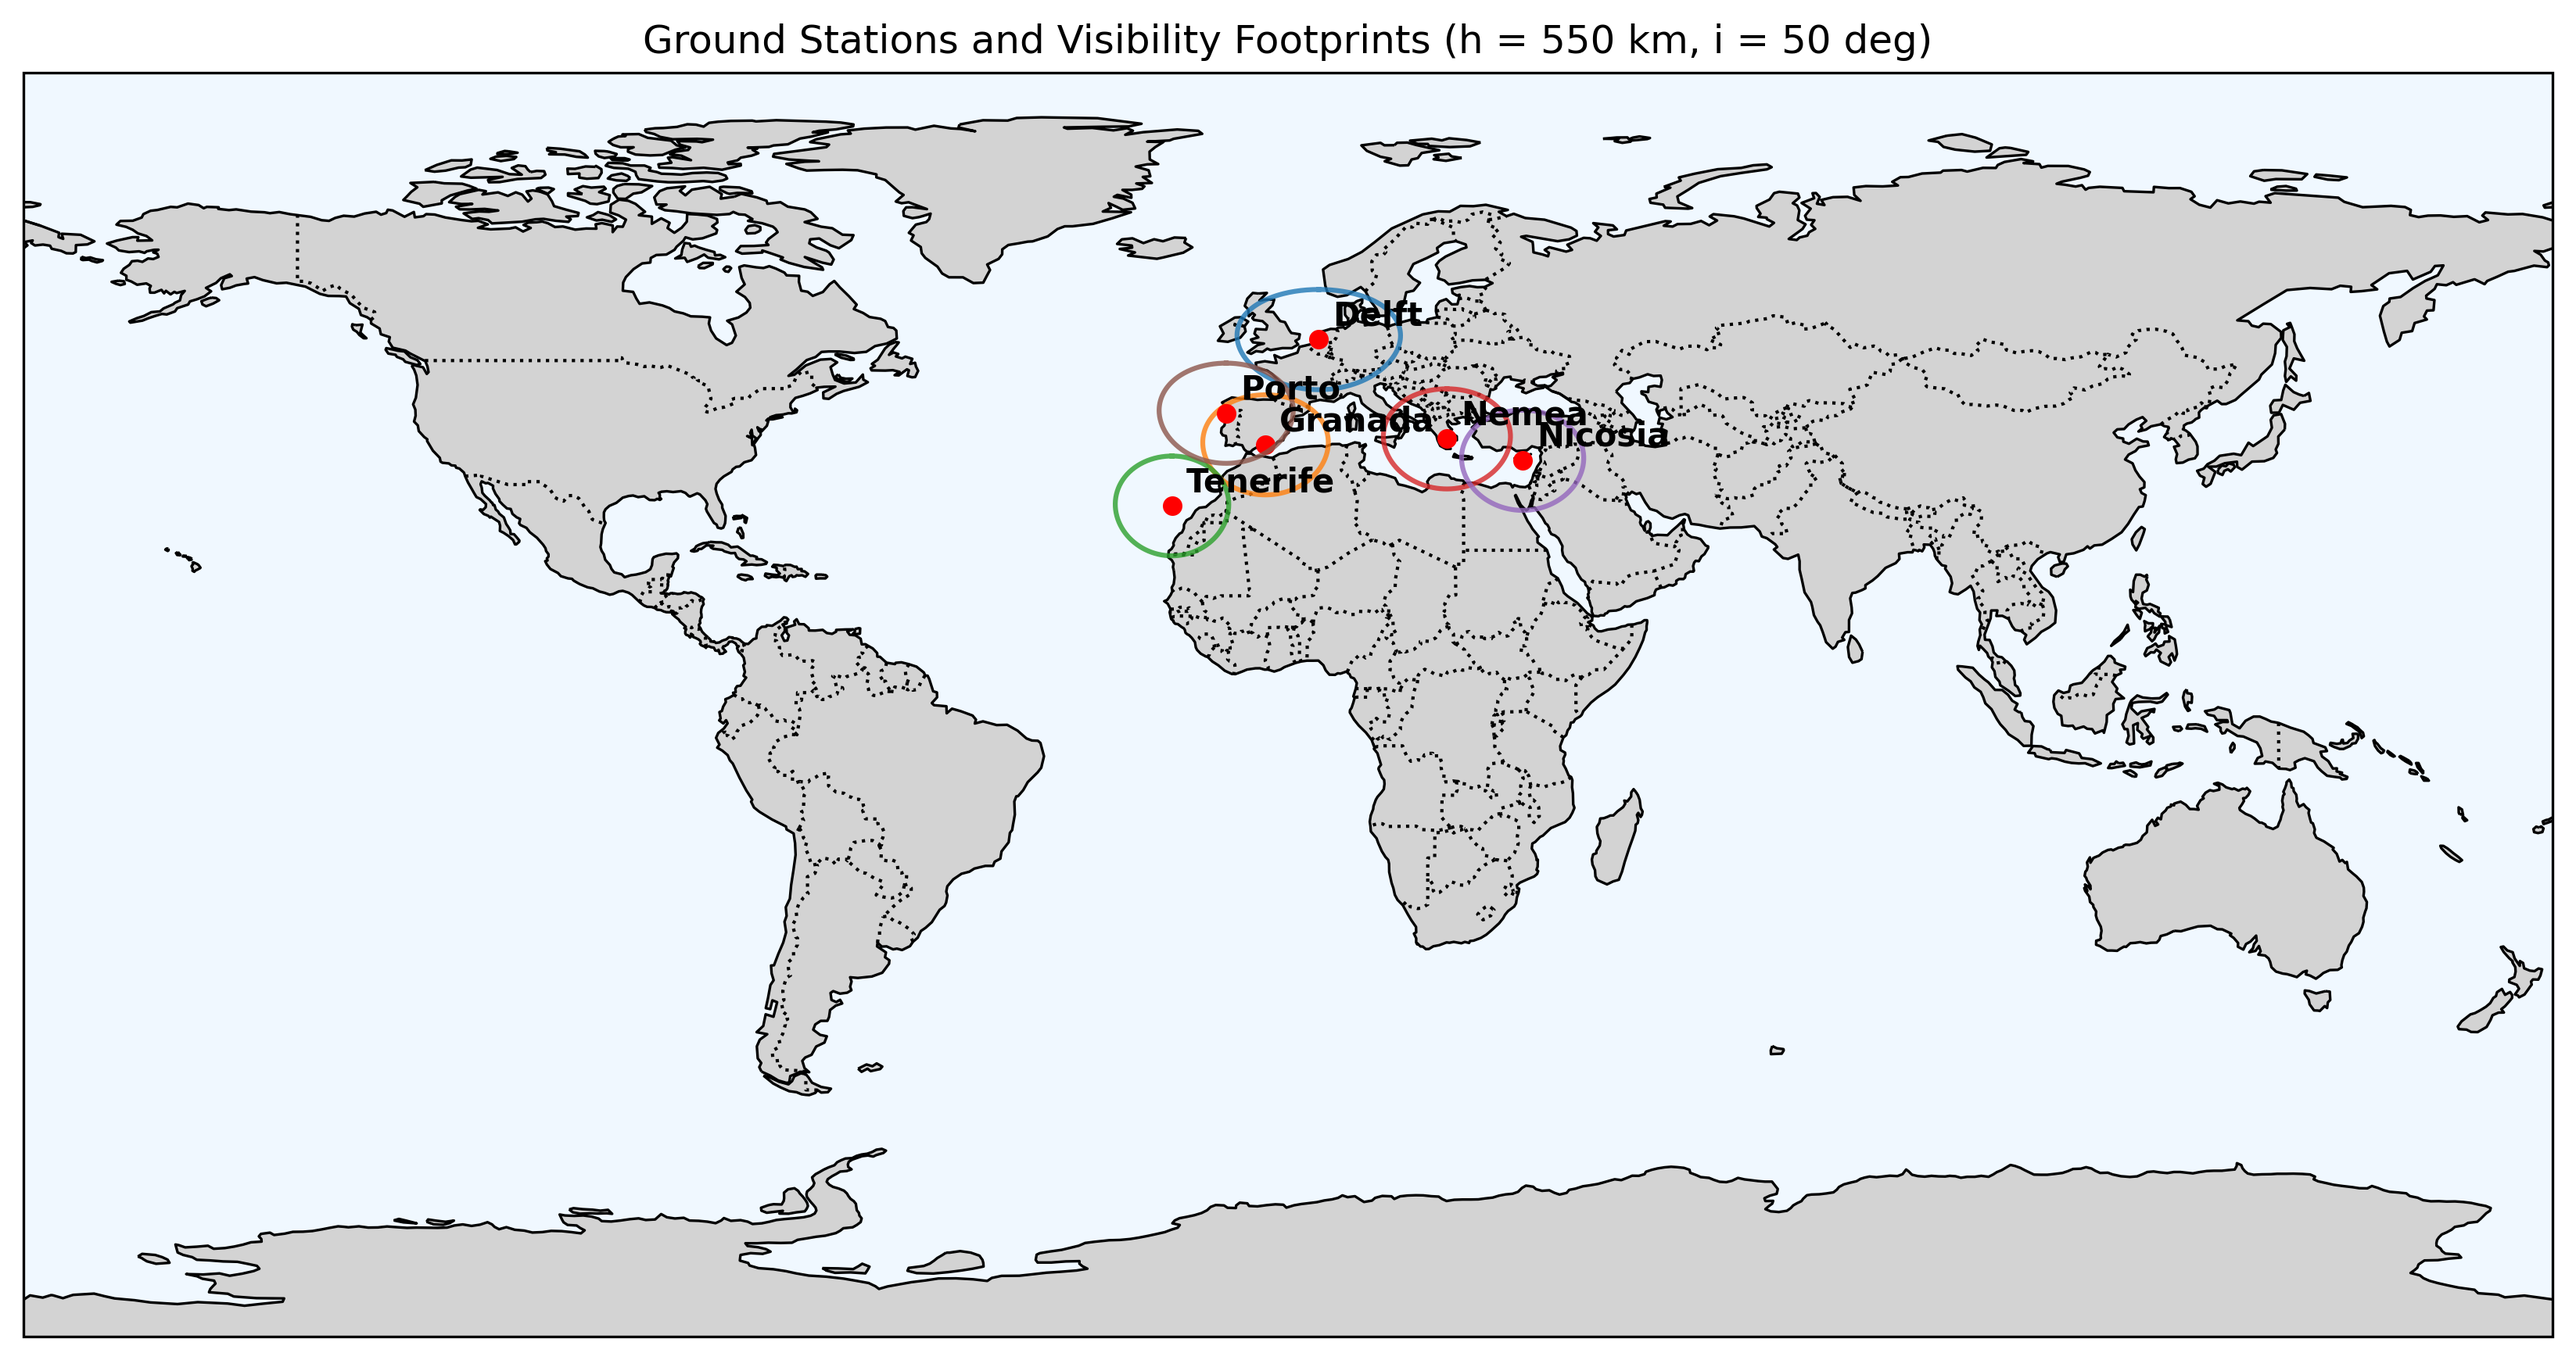
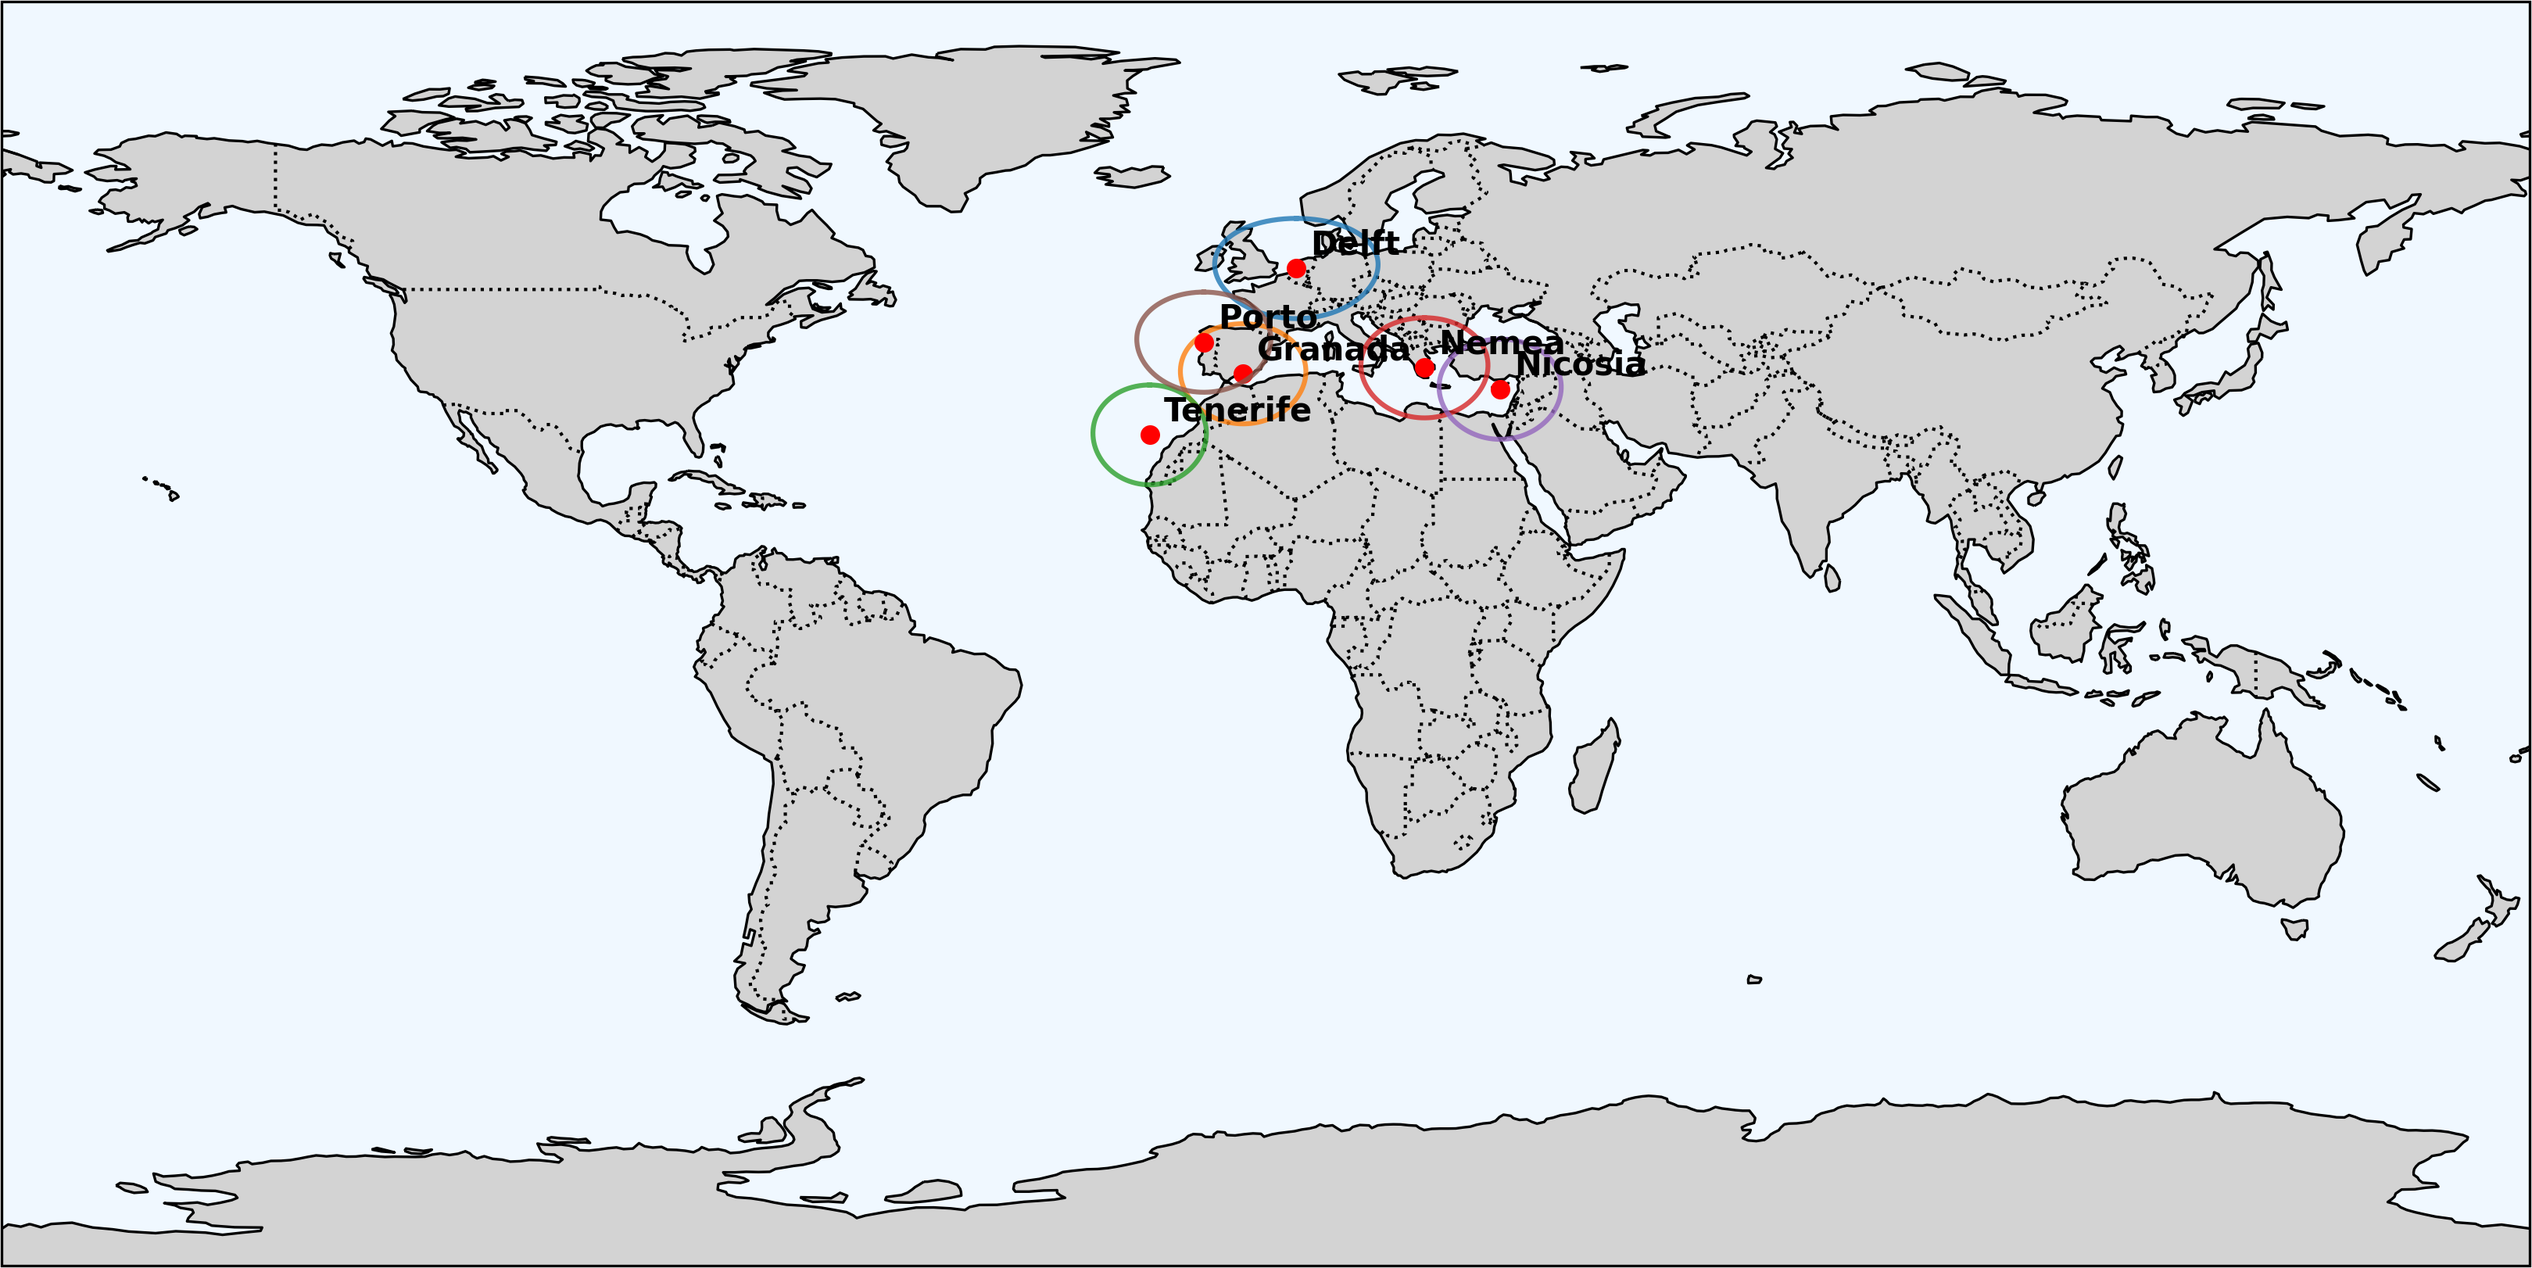
New optical noise model

Changed region(s): [[0.0, 0.0, 1.0, 1.0], [0.0, 0.0, 0.0312, 0.0617]]

diff --git a/NoiseOptical.py b/NoiseOptical.py
@@ -224,6 +224,183 @@ class opticalNoise():
             with open(filename, 'w') as f:
                 f.write(summary_str)
 
+
+import numpy as np
+
+
+class OpticalNoiseV2:
+
+    def __init__(self, P_R:float, wavelength:float, B_e:float, T:float=300, R:float=50, eta:float=0.9, i_D:float=1e-9, detector_type:str="PIN", detector_material:str="ingaas", M:float=1):
+        """
+        :param P_R: Received optical power at the photodetector [W]
+        :type P_R: float
+        :param wavelength: Wavelength of the optical signal [m]
+        :type wavelength: float
+        :param B_e: Electrical bandwidth of the receiver [Hz]
+        :type B_e: float
+        :param T: Receiver temperature [K], default is 300 K
+        :type T: float
+        :param R: Load resistance [Ohm], default is 50 Ohm
+        :type R: float
+        :param eta: Photodiode quantum efficiency (0.30 to 0.95 typical), default is 0.9
+        :type eta: float
+        :param i_D: Dark current of the photodiode [A], default is 1 nA
+        :type i_D: float
+        :param detector_type: Type of photodetector ("PIN" or "APD"), default is "PIN"
+        :type detector_type: str
+        :param detector_material: Material of the photodetector ("Si", "InGaAs", "Ge"), default is "InGaAs"
+        :type detector_material: str
+        :param M: Avalanche gain for APD (ignored for PIN), default is 1
+        :type M: float
+        """
+        self.P_R = P_R  # Received optical power [W]
+        self.wavelength = wavelength  # Wavelength [m]
+        self.B_e = B_e  # Electrical receiver bandwidth [Hz]
+        self.T = T  # Receiver temperature [K]
+        self.R = R  # Load resistance [Ohm]
+        self.eta = eta  # Photodiode quantum efficiency [-] (30% to 95% typical)
+        self.i_D = i_D  # Dark current [A]
+
+        self.detector_type = detector_type.upper()  # "PIN" or "APD"
+        self.detector_material = detector_material.lower()  # "si", "ingaas" or "ge"
+
+        match self.detector_type:
+            case "APD":
+                match self.detector_material:
+                    case "si":
+                        x = 0.3
+                    case "ingaas":
+                        x = 0.7
+                    case "ge":
+                        x = 1.0
+                    case _:
+                        raise ValueError("Invalid detector material. Must be 'Si', 'InGaAs', or 'Ge'.")
+                self.M = M  # Avalanche gain for APD
+                self.F = M ** x  # Excess noise factor for APD
+            case "PIN":
+                self.M = 1  # No gain for PIN
+                self.F = 1  # No excess noise for PIN
+            case _:
+                raise ValueError("Invalid detector type. Must be 'PIN' or 'APD'.")
+
+        # constants
+        self.q = 1.602176634e-19  # electron charge (C)
+        self.h = 6.62607015e-34  # Planck's constant (J*s)
+        self.c = 299792458  # speed of light (m/s)
+        self.kB = 1.380649e-23  # Boltzmann constant (J/K)
+
+        # Calculate everything
+        self.sigmaShot = self.shotNoise()
+        self.sigmaDark = self.darkNoise()
+        self.sigmaThermal = self.thermalNoise()
+        self.sigmaTotal = self.totalNoise()
+        self.SNR = self.SNR()
+
+    def responsivity(self):
+        """
+        Calculate photodetector responsivity [A/W] based on quantum efficiency and wavelength.
+        """
+        return self.eta * self.q * self.wavelength / (self.h * self.c) * self.M
+
+    def photocurrent(self):
+        """
+        Calculate photocurrent generated by the received optical power [A].
+        """
+        return self.responsivity() * self.P_R
+
+    def shotNoise(self):
+        """
+        Calculate shot noise. [A^2]
+        """
+        return 2 * self.q * self.photocurrent() * self.B_e * (self.M ** 2) * self.F
+
+    def darkNoise(self):
+        """
+        Calculate dark current noise. [A^2]
+        """
+        return 2 * self.q * self.i_D * self.B_e * (self.M ** 2) * self.F
+
+    def thermalNoise(self):
+        """
+        Calculate thermal noise. [A^2]
+        """
+        return 4 * self.kB * self.T / self.R * self.B_e
+
+    def totalNoise(self):
+        """
+        Calculate total noise. [A^2]
+        """
+        return self.sigmaShot + self.sigmaDark + self.sigmaThermal
+
+    def SNR(self, ):
+        """
+        Calculate signal-to-noise ratio (SNR) at the photodetector output (dimensionless).
+        """
+        return self.photocurrent() ** 2 / self.totalNoise()
+
+    def summary(self, in_dB: bool = False, Print: bool = True, save: bool = False, filename: str = "opticalNoiseSummary.txt"):
+        if in_dB:
+            summary_str = f"""
+            === Optical Noise Summary ===
+            --- Inputs ---
+            P_R (Received Optical Power): {self.P_R:.3e} W
+            Wavelength: {self.wavelength:.3e} m
+            B_e (Electrical Bandwidth): {self.B_e:.3e} Hz
+            T (Temperature): {self.T:.1f} K
+            R (Load Resistance): {self.R:.3f} Ohm
+            eta (Quantum Efficiency): {self.eta:.3f}
+            i_D (Dark Current): {self.i_D:.3e} A
+            Detector Type: {self.detector_type}
+            Detector Material: {self.detector_material}
+            Avalanche Gain (M): {self.M:.3f}
+
+            --- Noise Components ---
+            Shot noise: {linear_to_dB(self.sigmaShot):.3f} dBA
+            Dark current noise: {linear_to_dB(self.sigmaDark):.3f} dBA
+            Thermal noise: {linear_to_dB(self.sigmaThermal):.3f} dBA
+
+            --- Total Noise ---
+            Total noise: {linear_to_dB(self.sigmaTotal):.3f} dBA
+
+            --- Performance Metrics ---
+            SNR: {linear_to_dB(self.SNR):.3f} dB
+            """
+        else:
+            summary_str = f"""
+            === Optical Noise Summary ===
+            --- Inputs ---
+            P_R (Received Optical Power): {self.P_R:.3e} W
+            Wavelength: {self.wavelength:.3e} m
+            B_e (Electrical Bandwidth): {self.B_e:.3e} Hz
+            T (Temperature): {self.T:.1f} K
+            R (Load Resistance): {self.R:.3f} Ohm
+            eta (Quantum Efficiency): {self.eta:.3f}
+            i_D (Dark Current): {self.i_D:.3e} A
+            Detector Type: {self.detector_type}
+            Detector Material: {self.detector_material}
+            Avalanche Gain (M): {self.M:.3f}
+
+            --- Noise Components ---
+            Shot noise: {self.sigmaShot:.3e} A^2
+            Dark current noise: {self.sigmaDark:.3e} A^2
+            Thermal noise: {self.sigmaThermal:.3e} A^2
+
+            --- Total Noise ---
+            Total noise: {self.sigmaTotal:.3e} A^2
+
+            --- Performance Metrics ---
+            SNR: {self.SNR:.3e}
+            """
+        if Print:
+            print(summary_str)
+        if save:
+            with open(filename, 'w') as f:
+                f.write(summary_str)
+
+
 ### RUN HERE
-example = opticalNoise(I1=1e-3, I0=1e-6, B=10e9, RIN=dB_to_linear(-145), eta_PD=0.9, eta_RX=1000, eta_LD=0.5, eta_FO=1, I_TX_RMS=1e-6, i_dark=10e-9, R_load=50, T=300)
-example.summary(True)
+#example = opticalNoise(I1=1e-3, I0=1e-6, B=10e9, RIN=dB_to_linear(-145), eta_PD=0.9, eta_RX=1000, eta_LD=0.5, eta_FO=1, I_TX_RMS=1e-6, i_dark=10e-9, R_load=50, T=300)
+#example.summary(True)
+
+exampleV2 = OpticalNoiseV2(P_R=1e-3, wavelength=1550e-9, B_e=10e9, T=300, R=50, eta=0.9, i_D=1e-9, detector_type="APD", detector_material="InGaAs", M=10)
+exampleV2.summary(True)
